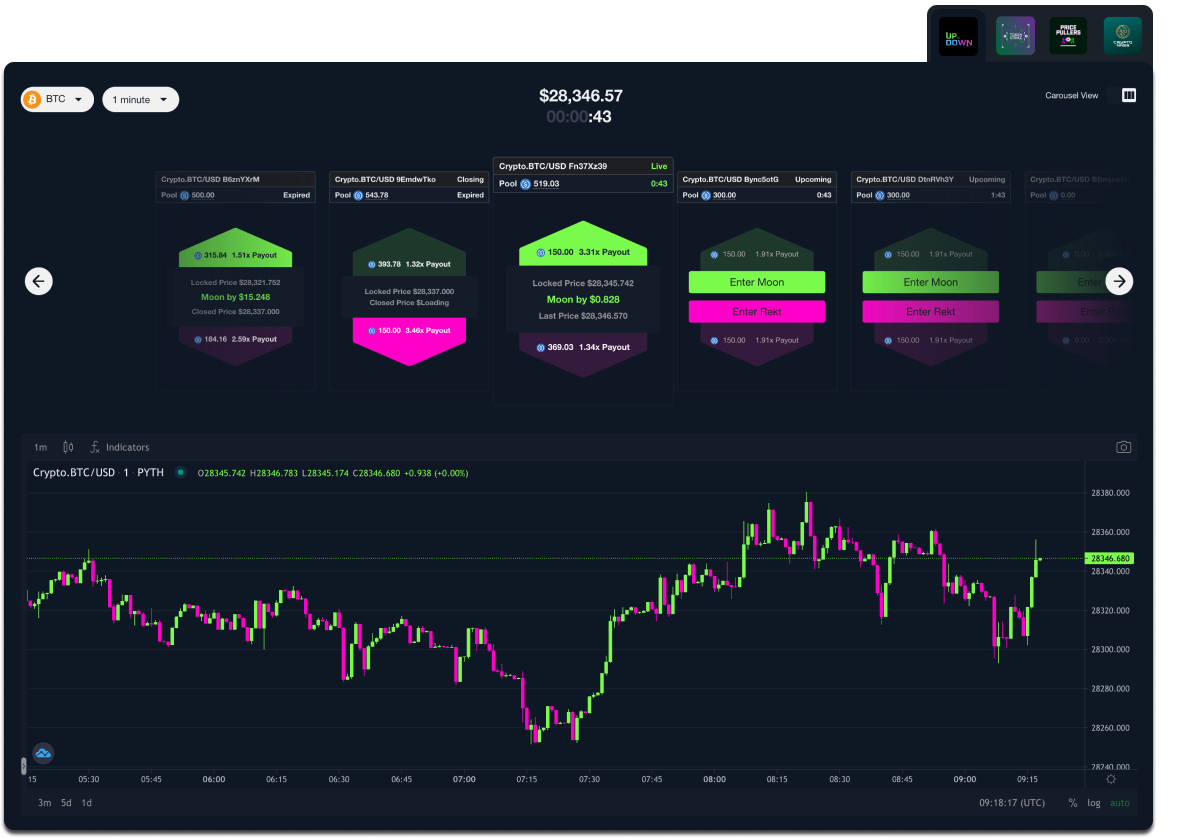
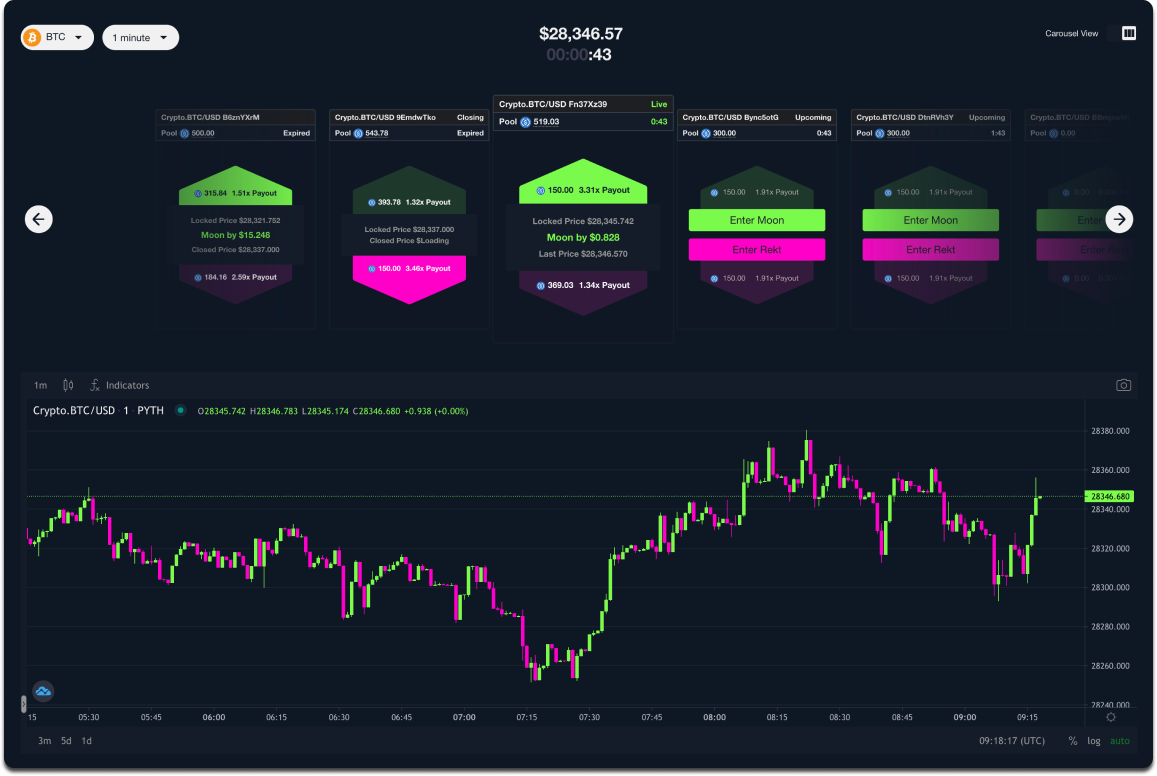
ifram and signup modal and 1s delay and fixes

diff --git a/components/UI/Signup.vue b/components/UI/Signup.vue
@@ -1,0 +1,89 @@
+<template>
+<div class="relative z-50" aria-labelledby="modal-title" role="dialog" aria-modal="true" v-if="show">
+ 
+  <div class="fixed inset-0 bg-[#000000] bg-opacity-80 transition-opacity"></div>
+
+  <div class="fixed inset-0 z-50 overflow-y-auto">
+    <div class="flex min-h-full  h-full items-center justify-center  text-center sm:items-center ">
+   
+      <div  class="relative transform overflow-y-auto font-inter h-full  sm:rounded-[10px]  w-screen sm:h-auto p-8 bg-[#132932] text-left shadow-xl transition-all sm:my-8  sm:w-full sm:max-w-[449px]">
+            <button @click="show = false" class=" cursor-pointer absolute top-4 right-4">
+                <svg width="11" height="11" viewBox="0 0 11 11" fill="none" xmlns="http://www.w3.org/2000/svg">
+                    <path fill-rule="evenodd" clip-rule="evenodd" d="M8.90561 0.674728C9.32148 0.265976 9.99575 0.265976 10.4116 0.674728C10.8275 1.08348 10.8275 1.7462 10.4116 2.15495L6.95361 5.55374L10.5097 9.04896C10.9256 9.45771 10.9256 10.1204 10.5097 10.5292C10.0939 10.9379 9.41959 10.9379 9.00371 10.5292L5.44759 7.03397L1.89147 10.5292C1.47559 10.9379 0.801328 10.9379 0.385453 10.5292C-0.0304215 10.1204 -0.0304212 9.45771 0.385454 9.04896L3.94157 5.55374L0.483557 2.15495C0.0676822 1.7462 0.0676822 1.08348 0.483557 0.674728C0.899432 0.265976 1.5737 0.265976 1.98957 0.674728L5.44759 4.07352L8.90561 0.674728Z" fill="white" fill-opacity="0.5"/>
+                </svg>
+            </button>
+
+          <div class=" flex flex-col items-center space-y-10">
+             <div class=" flex items-center space-x-2">
+                <div class="  font-bold text-lg text-center">
+                  Register
+                </div>
+             </div>
+           
+          </div>
+
+        
+
+          <div  class=" w-full flex flex-col items-center space-y-4 pt-4">
+                
+              
+              
+
+                <div class=" w-full flex flex-col items-start space-y-5">
+                    <div class=" flex flex-col items-start space-y-1 w-full">
+                        <span class=" text-[#667B83] text-xs font-normal">E-mail  *</span>
+                        <input type="text" class=" w-full bg-white rounded-lg h-[2.4rem] p-4 outline-none text-black" placeholder="E-mail">
+                    </div>
+                     <div class=" flex flex-col items-start space-y-1 w-full">
+                        <span class=" text-[#667B83] text-xs font-normal">name</span>
+                        <input type="text" class=" w-full bg-white rounded-lg h-[2.4rem] p-4 outline-none text-black" placeholder="Username">
+                    </div>
+                     <div class=" flex flex-col items-start space-y-1 w-full">
+                        <span class=" text-[#667B83] text-xs font-normal">surname</span>
+                        <input type="text" class=" w-full bg-white rounded-lg h-[2.4rem]  p-4 outline-none text-black" placeholder="Promo code">
+                    </div>
+                    <div class=" flex items-center space-x-2">
+                        <input class=" w-4 h-4 border border-[#667B83] " type="checkbox">
+                        <span class=" text-white font-normal text-xs">I agree with <a href="" class=" underline">Terms and Conditions</a> </span>
+                    </div>
+                     <div class=" flex items-center space-x-2">
+                        <input class=" w-4 h-4 border border-[#667B83]" type="checkbox">
+                        <span class=" text-white font-normal text-xs">I confirm that I'm 18 years or older</span>
+                    </div>
+                </div>
+          </div>
+
+
+          <div class=" flex flex-col items-center space-y-5 pt-10">
+                        <button @click="SignUp" class=" md:pr-0 hover:rounded-md cursor-pointer text-white font-bold font-inter text-xs bg-primary rounded-sm max-w-[6.839rem]  w-full h-[2.76rem]  text-center hover:bg-opacity-75 duration-300">Sign Up</button>
+          </div>
+      </div>
+    </div>
+  </div>
+</div>
+
+</template>
+
+
+<script setup>
+ import PromotionCard from "@/components/UI/PromotionCard.vue"
+
+ const show = ref(false)
+
+ const open = () => {
+    show.value = true
+ }
+
+
+ const SignUp = () => {
+    show.value = false
+ }
+
+
+
+ defineExpose({
+    open
+ })
+
+
+</script>

diff --git a/components/partials/sections/up-or-down/FirstSection.vue b/components/partials/sections/up-or-down/FirstSection.vue
@@ -4,8 +4,8 @@
         <div class=" w-full relative">
             <img src="/images/up-or-down/hero.webp" class=" w-full  h-[50.9375rem] sm:h-[51.3125rem] lg:h-[69.313rem]  object-cover" alt="hero">
             <div class="  w-full h-full  absolute top-[6rem] sm:top-[8rem] lg:top-[12.8rem] left-0">
-                <div class="max-w-[32.90744rem]  mx-auto flex flex-col items-center space-y-0 sm:space-y-5">
-                    <p class=" text-white font-inter font-extrabold text-[2.25538rem] sm:text-[5rem] text-center leading-[2rem] sm:leading-[4.6rem] relative z-20  ">
+                <div   class="max-w-[32.90744rem]  mx-auto flex flex-col items-center space-y-0 sm:space-y-5">
+                    <p :class="{'invisible':!show}" class=" text-white font-inter font-extrabold text-[2.25538rem] sm:text-[5rem] text-center leading-[2rem] sm:leading-[4.6rem] relative z-20  ">
                         <span>Up</span> <span class=" text-[1.12769rem] sm:text-[2.5rem]">or</span>
                         <br>
                         <span class=" pl-5">Down</span>
@@ -23,18 +23,38 @@
                         <div class=" w-[22.75rem] h-[5rem] sm:w-[34rem] sm:h-[16rem] absolute -top-[1rem] sm:-top-[6rem]" style="border-radius: 24.9375rem;background: linear-gradient(180deg, #FF5C5C 0%, #F00 100%);filter: blur(50px);flex-shrink: 0;"> </div>
                         <button class=" m-auto relative font-inter text-center rounded-lg w-full hover:rounded-3xl duration-200 text-white text-[1.07556rem] sm:text-[1.76606rem] font-bold bg-primary max-w-[19.87213rem] sm:max-w-[20.49706rem] h-[2.79063rem] sm:h-[4.58231rem]">Connect Wallet</button>
                         <p class=" font-inter text-[0.42288rem] sm:text-[0.9375rem] font-normal text-white relative pt-2 sm:pt-0">
-                            no wallet? <a href="" class=" underline hover:text-primary duration-200">Register here</a>
+                            no wallet? <a href="javascript:void(0)" @click="SignUp" class=" underline hover:text-primary duration-200">Register here</a>
                         </p>
                     </div>
                   </div>
                 </div>
 
-                <div class=" w-full flex pt-4 lg:pt-5 relative z-20 ">
-                    <img class=" m-auto w-full lg:max-w-[71.8125rem] max-w-[37.52375rem] md:max-w-[58.18581rem] hidden sm:block" src="/images/up-or-down/chart.png"  alt="">
-                       <img class=" m-auto w-full h-[32.6875rem]  max-w-[22.75rem]  sm:hidden" src="/images/up-or-down/chart-mobile.png"  alt="">
+                <div class=" w-full flex px-4 pt-20 md:pt-10 lg:pt-20 relative z-20 ">
+                   <div class=" m-auto w-full rounded-xl lg:max-w-[71.8125rem] max-w-[37.52375rem] md:max-w-[58.18581rem] h-[51.24806rem]">
+                        <Games />
+                   </div>
                 </div>
             </div>
         </div>
-        <div class=" w-full h-[5rem]  absolute bottom-0 left-0" style="background: linear-gradient(0deg, #11161C 0%, rgba(81, 115, 156, 0.00) 14.7%);"></div>
+
+        <Signup ref="SignupRef" />
     </section>
 </template>
+
+
+
+<script setup>
+import Games from "@/components/UI/Games.vue";
+import Signup from "@/components/UI/Signup.vue";
+ const show = ref(false);
+ const SignupRef = ref(null)
+ const SignUp = () => {
+   SignupRef.value.open();
+ }
+
+ onMounted(() => {
+   setTimeout(() => {
+     show.value = true;
+   }, 1000);
+ });
+</script>

diff --git a/components/UI/Games.vue b/components/UI/Games.vue
@@ -1,0 +1,49 @@
+<template>
+  <div class="w-full h-full relative">
+    <div class=" bg-[#1B2128] rounded-t-[0.625rem] px-2 pt-2 w-full flex items-center justify-between max-w-[14.125rem] absolute -top-16 right-1">
+        <div :class="{'bg-[#0E1824]':selectedGame === 0}" @click="selectGame(0)" class=" duration-200 w-[3.4375rem] h-[3.8125rem] rounded-t-[0.625rem] flex cursor-pointer">
+            <img src="/images/up-or-down/updown.png" alt="" class=" m-auto">
+        </div>
+         <div :class="{'bg-[#0E1824]':selectedGame === 1}" @click="selectGame(1)"  class=" duration-200  w-[3.4375rem] h-[3.8125rem] rounded-t-[0.625rem] flex cursor-pointer">
+            <img src="/images/up-or-down/coming-soojn1.png" alt="" class=" m-auto">
+        </div>
+         <div :class="{'bg-[#0E1824]':selectedGame === 2}" @click="selectGame(2)"  class="duration-200   w-[3.4375rem] h-[3.8125rem] rounded-t-[0.625rem] flex cursor-pointer">
+            <img src="/images/up-or-down/coming-soojn2.png" alt="" class=" m-auto">
+        </div>
+         <div :class="{'bg-[#0E1824]':selectedGame === 3}" @click="selectGame(3)"  class=" duration-200  w-[3.4375rem] h-[3.8125rem] rounded-t-[0.625rem] flex cursor-pointer">
+            <img src="/images/up-or-down/coming-soojn3.png" alt="" class=" m-auto">
+        </div>
+    </div>
+    <div class=" w-full h-full relative" v-if="selectedGame === 0">
+        <iframe 
+        class="overflow-hidden rounded-xl"
+        width="100%"
+        height="100%"
+        src="https://upordown.bitbloxrgs.com?id=17&subscriptionKey=PIoEaXgGypHeBRTDhDkrsBUCBhCoXkcFoIXspGqUjRPz&token=test"
+        title=""
+        style="border: unset"
+        >
+        </iframe>
+    </div>
+    <div class=" w-full h-full relative" v-if="selectedGame === 1">
+
+           <img class="  w-full h-full hidden sm:block" src="/images/up-or-down/chart.png"  alt="">
+           <img class="  w-full h-full   sm:hidden" src="/images/up-or-down/chart-mobile.png"  alt="">
+    </div>
+     <div class=" w-full h-full relative" v-if="selectedGame === 2">
+
+    </div>
+     <div class=" w-full h-full relative" v-if="selectedGame === 3">
+
+    </div>
+  </div>
+</template>
+
+
+<script setup>
+ const selectedGame = ref(0)
+
+ const selectGame = (index) => {
+    selectedGame.value = index
+ }
+</script>

diff --git a/pages/up-or-down/index.vue b/pages/up-or-down/index.vue
@@ -1,7 +1,7 @@
 <template>
     <div class=" w-full ">
         <FirstSection />
-       <div class=" w-full pt-[5rem] sm:pt-[10rem] md:pt-[25.5rem]">
+       <div class=" w-full pt-[25rem]  sm:pt-[40rem] lg:pt-[30.5rem]">
          <SecondSection />
        </div>
        <ThirdSection />
